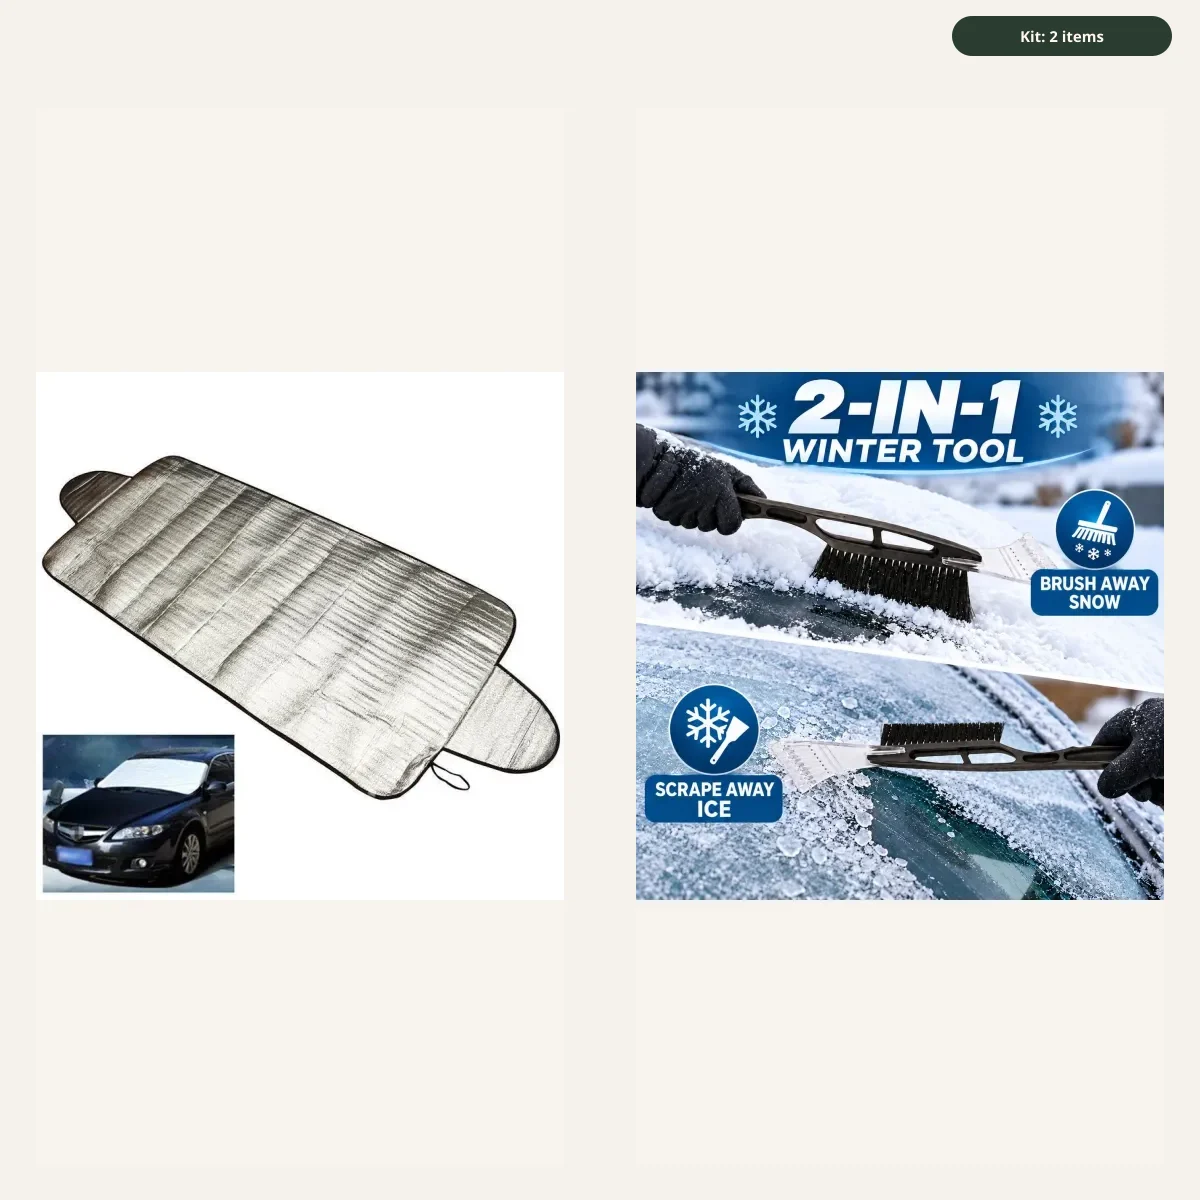
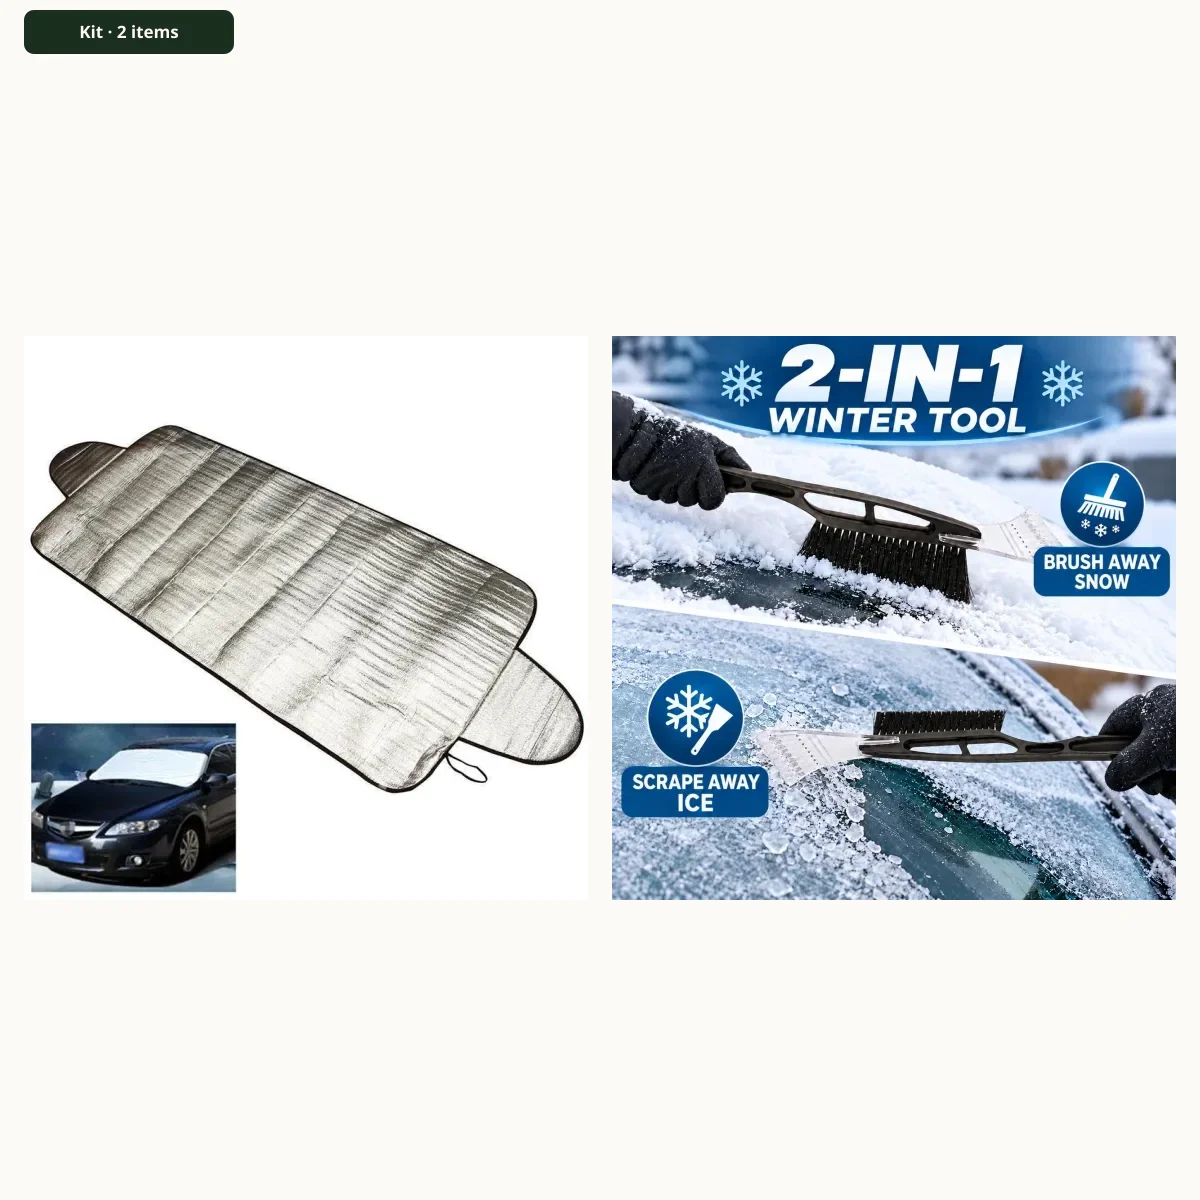
Tighter kit composites, reindeer SKU fix, card heroes
Kit images use full-tile layouts (2-up or 1+2) on warm white with bold
Kit badge; XM-KIT-TREE uses GEM-76758 stag not wreath hanger SKU.
Distinct card hero indices for similar Fixmonger curtains/frost covers;
dedupe GPSR warning copy on PDP. Personalise disabled Continue meets contrast.

Changed region(s): [[0.0, 0.2775, 0.9867, 0.7708], [0.0, 0.0, 0.2158, 0.0617], [0.7708, 0.0, 0.9867, 0.0617]]

diff --git a/config/catalogue/fixmonger-seed.ts b/config/catalogue/fixmonger-seed.ts
@@ -8,6 +8,7 @@ import {
   recommendedPence,
 } from "@/config/catalogue/pricing-seed";
 import { gpsrForSupplier } from "@/config/gpsr-defaults";
+import { CATALOGUE_CARD_HERO_INDEX } from "@/lib/catalogue/card-hero-index";
 import { resolveProductImages } from "@/lib/catalogue/product-images";
 import type { CatalogueProduct } from "@/lib/catalogue/types";
 
@@ -27,7 +28,8 @@ function buildProduct(row: ReturnType<typeof pricingRowsForStore>[number]): Cata
     : adminUnitCostPence("Fixmonger", row.sku);
 
   const name = copy?.name ?? row.name;
-  const { paths, meta } = resolveProductImages("fixmonger", row.sku, PLACEHOLDER, name);
+  const cardHero = CATALOGUE_CARD_HERO_INDEX[`fixmonger:${row.sku}`] ?? 0;
+  const { paths, meta } = resolveProductImages("fixmonger", row.sku, PLACEHOLDER, name, cardHero);
 
   return {
     id: slugFromSku(row.sku),
@@ -40,7 +42,6 @@ function buildProduct(row: ReturnType<typeof pricingRowsForStore>[number]): Cata
     longDescription: copy?.description,
     specs: copy?.specs,
     deliveryEstimate: copy?.delivery,
-    gpsrSafetyText: copy?.gpsr,
     gpsr: gpsrForSupplier("go_dropship", copy?.gpsr ? { safetyWarnings: copy.gpsr } : undefined),
     supplier: "go_dropship",
     supplierSku: row.sku,

diff --git a/lib/catalogue/product-images.ts b/lib/catalogue/product-images.ts
@@ -28,15 +28,23 @@ export function catalogueMainImage(storeId: string, sku: string): ProductImageMe
   return imgs[0] ?? null;
 }
 
+function rotateGallery<T>(items: T[], startIndex: number): T[] {
+  if (!items.length || startIndex <= 0) return items;
+  const i = startIndex % items.length;
+  return [...items.slice(i), ...items.slice(0, i)];
+}
+
 export function resolveProductImages(
   storeId: string,
   sku: string,
   fallback: string,
   altFallback: string,
+  cardHeroIndex?: number,
 ): { paths: string[]; meta: import("@/lib/catalogue/types").CatalogueProductImage[] } {
   const fromManifest = catalogueImagesForSku(storeId, sku);
   if (fromManifest.length) {
-    const meta = fromManifest.map((img) => ({
+    const ordered = rotateGallery(fromManifest, cardHeroIndex ?? 0);
+    const meta = ordered.map((img) => ({
       src: img.path,
       width: img.width,
       height: img.height,

diff --git a/tests/catalogue-merge.test.ts b/tests/catalogue-merge.test.ts
@@ -20,7 +20,13 @@ const seed: CatalogueProduct = {
   images: ["/stores/products/fixmonger/HOM-76459.webp"],
   variants: [],
   active: true,
-  gpsrSafetyText: "Seed GPSR",
+  gpsr: {
+    manufacturerName: "M",
+    manufacturerAddress: "A",
+    responsiblePersonName: "R",
+    responsiblePersonAddress: "B",
+    safetyWarnings: "Seed GPSR",
+  },
 };
 
 const staleDb: CatalogueProduct = {
@@ -40,7 +46,7 @@ test("mergeSeedWithOverride keeps seed merchandising fields", () => {
   assert.equal(merged.pricePence, 2599);
   assert.equal(merged.description, "Full description from seed");
   assert.equal(merged.benefitLine, "Stops the draught");
-  assert.equal(merged.gpsrSafetyText, "Seed GPSR");
+  assert.equal(merged.gpsr?.safetyWarnings, seed.gpsr?.safetyWarnings);
   assert.equal(merged.stock, 12);
   assert.match(merged.images[0], /HOM-76459\.webp/);
 });

diff --git a/components/shop/product-detail.tsx b/components/shop/product-detail.tsx
@@ -97,7 +97,10 @@ export function ShopProductDetail({ product, crossSells, cutoffNote }: Props) {
                   {product.gpsr.needsConfirming ? <p className="text-xs text-muted/80">Supplier details flagged for confirmation in admin.</p> : null}
                 </dl>
               ) : null}
-              {product.gpsrSafetyText ? <p className="mt-2 text-muted">{product.gpsrSafetyText}</p> : null}
+              {product.gpsrSafetyText &&
+              product.gpsrSafetyText.trim() !== product.gpsr?.safetyWarnings?.trim() ? (
+                <p className="mt-2 text-muted">{product.gpsrSafetyText}</p>
+              ) : null}
             </section>
           ) : null}
         </div>

diff --git a/components/jinglefold/personalise-wizard.tsx b/components/jinglefold/personalise-wizard.tsx
@@ -196,7 +196,7 @@ export function JinglefoldPersonaliseWizard({
                 className={
                   canContinueStep1
                     ? "min-h-12 rounded-full bg-pumpkin px-8 text-sm font-semibold text-white"
-                    : "min-h-12 cursor-not-allowed rounded-full border-2 border-dashed border-line bg-ink/50 px-8 text-sm font-semibold text-muted"
+                    : "min-h-12 cursor-not-allowed rounded-full border-2 border-cream bg-bark px-8 text-sm font-semibold text-cream"
                 }
                 onClick={() => canContinueStep1 && setStep(2)}
               >

diff --git a/config/catalogue/jinglefold-bundles.ts b/config/catalogue/jinglefold-bundles.ts
@@ -17,10 +17,10 @@ export const JINGLEFOLD_BUNDLE_COMPONENTS: Record<string, CatalogueBundleCompone
       label: "Wooden nutcrackers",
     },
     {
-      supplierSku: "HOM-55255",
+      supplierSku: "GEM-76758",
       quantity: 1,
-      costPence: adminUnitCostPence("Christmas store", "HOM-55255"),
-      label: "Wreath hanger",
+      costPence: adminUnitCostPence("Christmas store", "GEM-76758"),
+      label: "Glitter reindeer (25 cm)",
     },
   ],
 };

diff --git a/config/catalogue/jinglefold-seed.ts b/config/catalogue/jinglefold-seed.ts
@@ -55,7 +55,6 @@ function buildDecorProduct(row: ReturnType<typeof pricingRowsForStore>[number]):
     kind: isBundle ? "bundle" : "standard",
     bundleComponents: isBundle ? bundleComponents : undefined,
     clpSafetyText: JINGLEFOLD_CLP_BY_SKU[row.sku],
-    gpsrSafetyText: copy?.gpsr,
     gpsr: gpsrForSupplier(
       "go_dropship",
       copy?.gpsr

diff --git a/lib/catalogue/card-hero-index.ts b/lib/catalogue/card-hero-index.ts
@@ -1,0 +1,9 @@
+/** 0-based gallery index for storefront card hero when supplier shots look identical. */
+export const CATALOGUE_CARD_HERO_INDEX: Record<string, number> = {
+  "fixmonger:HOM-76459": 0,
+  "fixmonger:HOM-76454": 2,
+  "fixmonger:CAR-46787": 0,
+  "fixmonger:CAR-63366": 1,
+  "fixmonger:HOM-62916": 1,
+  "fixmonger:CAR-75067": 2,
+};
